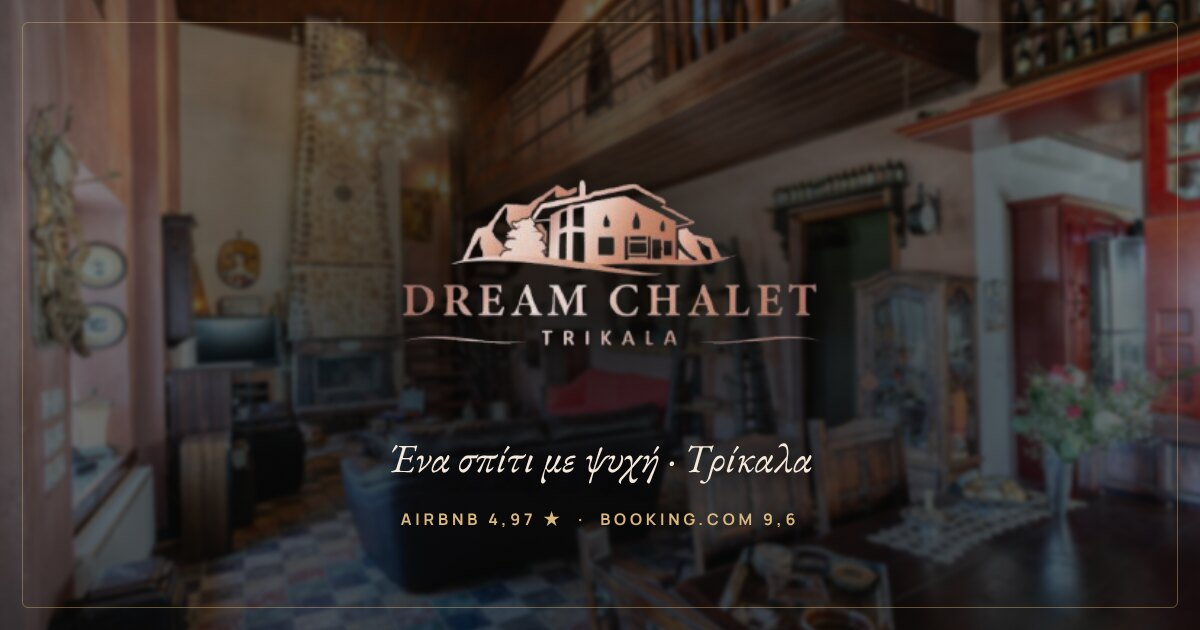
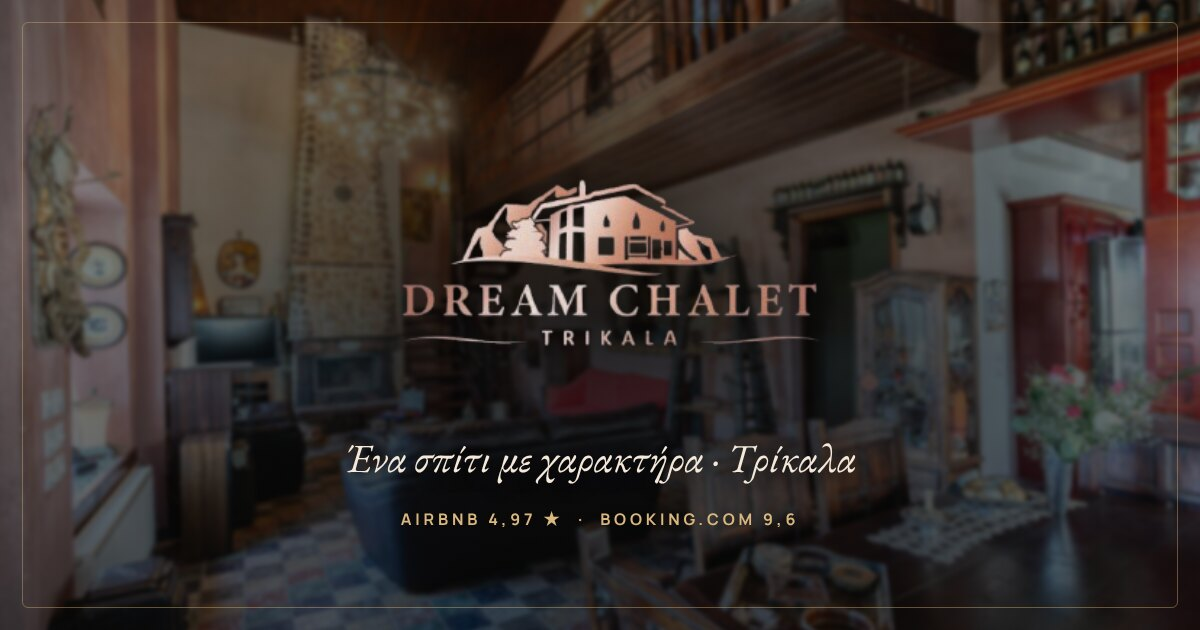
Match 'σπίτι με χαρακτήρα' wording: index.html fallbacks, manifest, share image
Claude-Session: https://claude.ai/code/session_018KGbKxTuxR4qZ14DARaTtU

Changed region(s): [[0.2775, 0.6937, 0.7092, 0.7841]]

diff --git a/index.html b/index.html
@@ -272,7 +272,7 @@
       <div class="hero-content">
         <div class="hero-content-inner">
           <h1 class="hero-title"><span class="char">D</span><span class="char">r</span><span class="char">e</span><span class="char">a</span><span class="char">m</span>&nbsp;<span class="char">C</span><span class="char">h</span><span class="char">a</span><span class="char">l</span><span class="char">e</span><span class="char">t</span></h1>
-          <p class="hero-subtitle" data-i18n="hero.subtitle">Ένα σπίτι με ψυχή, δέκα λεπτά από τα Τρίκαλα</p>
+          <p class="hero-subtitle" data-i18n="hero.subtitle">Ένα σπίτι με χαρακτήρα, δέκα λεπτά από τα Τρίκαλα</p>
           <div class="hero-ctas">
             <a href="#availability" class="btn-cta book-now" data-i18n="hero.bookNow" data-track="booking">Κράτηση</a>
             <a href="#gallery" class="btn-link" data-i18n="hero.seeHouse">Δείτε το σπίτι</a>
@@ -847,7 +847,7 @@
         <div class="footer-top">
           <div class="footer-brand">
             <img src="images/logo-removebg2.png" alt="Dream Chalet Trikala" class="footer-logo" width="372" height="245" loading="lazy">
-            <p class="footer-tagline" data-i18n="footer.tagline">Ένα σπίτι με ψυχή στη Ράξα, δέκα λεπτά από τα Τρίκαλα.</p>
+            <p class="footer-tagline" data-i18n="footer.tagline">Ένα σπίτι με χαρακτήρα στη Ράξα, δέκα λεπτά από τα Τρίκαλα.</p>
             <a href="#availability" class="footer-book" data-track="booking" data-i18n="nav.book">Κράτηση</a>
           </div>
 
